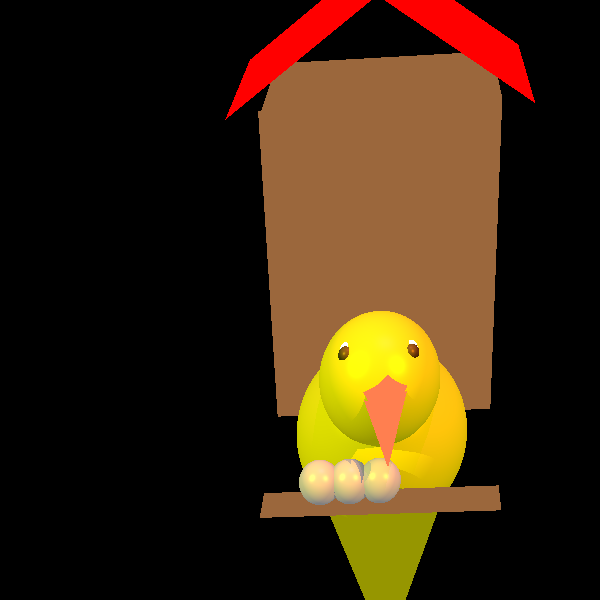
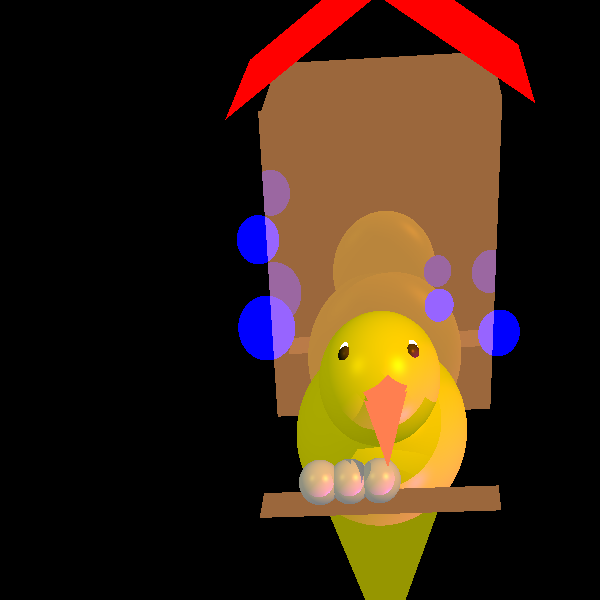
creating house. with shadows and bubbles

Changed region(s): [[0.39, 0.27, 0.87, 0.9]]

diff --git a/unittests/renderer/CameraTest.java b/unittests/renderer/CameraTest.java
@@ -242,7 +242,7 @@ class CameraTest {
                 new Quadrangle(new Point(17, 0, 0.3),new Point(17, 8, 0.3),new Point(19, 8, 0.3),new Point(19, 0, 0.3)).setColor(Color.BROWN),
                 //house
                //front of house
-                new Quadrangle(new Point(10, 0, 0.3),new Point(10, 8, 0.3),new Point(10, 8, 10),new Point(10, 0, 10)).setColor(Color.BROWN),
+                new Quadrangle(new Point(10, 0, 0.3),new Point(10, 8, 0.3),new Point(10, 8, 10),new Point(10, 0, 10)).setColor(Color.BROWN).setReflectivity(new Double3(0.2)),
                 //right of house
                 new Quadrangle(new Point(2, 8, 0.3),new Point(10, 8, 0.3),new Point(10, 8, 10),new Point(2,8,10)).setColor(Color.BROWN),
                 //left of house. it is crooced so I can view it
@@ -252,29 +252,24 @@ class CameraTest {
                 //top of house-roof-left
                new Quadrangle(new Point(11, 4, 13),new Point(11, -1, 10),new Point(1, -1, 10),new Point(1, 4, 13)).setColor(Color.RED),
                 //top of house- roof - right
-                new Quadrangle(new Point(11, 9, 10),new Point(11, 4, 13),new Point(1, 4, 13),new Point(1, 9, 10)).setColor(Color.RED)
-                //new Triangle(p16,p17,p19).setEmission(Color.DARK_GRAY),
-                //new Triangle(p19,p18,p16).setEmission(Color.YELLOW)
+                new Quadrangle(new Point(11, 9, 10),new Point(11, 4, 13),new Point(1, 4, 13),new Point(1, 9, 10)).setColor(Color.RED),
+                //bubbles in the sky
+                new Sphere(new Point(12, 0, 4),1).setMaterial(new Material().setkT(0.99).setShininess(30)).setEmission(Color.BLUE),
+                new Sphere(new Point(13, 0,7),0.7).setMaterial(new Material().setkT(0.99).setShininess(30)).setEmission(Color.BLUE),
+                new Sphere(new Point(12, 6, 4.5),0.5).setMaterial(new Material().setkT(0.99).setShininess(30)).setEmission(Color.BLUE),
+                new Sphere(new Point(13.5, 8, 4),0.7).setMaterial(new Material().setkT(0.99).setShininess(30)).setEmission(Color.BLUE)
+
         );
 
         LinkedList<LightSource> lights = new LinkedList<>();
         lights.add(new Spotlight(Color.MAGENTA,
-                new Point(40, 40, 200),
-                new Vector(-1, -1, -4)).setKl(0.0001).setKq(0.0001));
-        lights.add(new PointLight(Color.YELLOW, new Point(100, -100, 100)));
-        //????????????move it or change color
+                new Point(40, 40, -40),
+                new Vector(-1, -1, 4)).setKl(0.0001).setKq(0.0001));
+        lights.add(new PointLight(Color.YELLOW, new Point(100, -100, 100)).setKl(0.001).setKq(0.0001));
+
         lights.add(new DirectionalLight(Color.GOLD,new Vector(-2, -2, -2)));
 
 
-/*
-
-        lights.add(new Spotlight(Color.MAGENTA,
-                new Point(-50, 40, 200),
-                new Vector(5, -1, -4)).setKl(0.0000001).setKq(0.000001));
-        lights.add(new PointLight(Color.YELLOW, new Point(-100, -100, 100)).setKq(0.0000000001).setKl(0.000000001));
-        //????????????move it or change color
-        //lights.add(new DirectionalLight(Color.GOLD,new Vector(0, 1, 0)));
-*/
 
         Scene scene2 = new Scene.SceneBuilder("Test scene").setGeometries(geometries)
                 .setLights(lights).build();
@@ -282,7 +277,7 @@ class CameraTest {
 
         ImageWriter imageWriter = new ImageWriter("our test depth", 600, 600);
         camera.setImageWriter(imageWriter)
-                .setRayTracer(new RayTracerBasic(scene2).setSoftShadowsButton(false,20))
+                .setRayTracer(new RayTracerBasic(scene2).setSoftShadowsButton(false,30))
                 .renderImage()
                 .writeToImage();
     }
